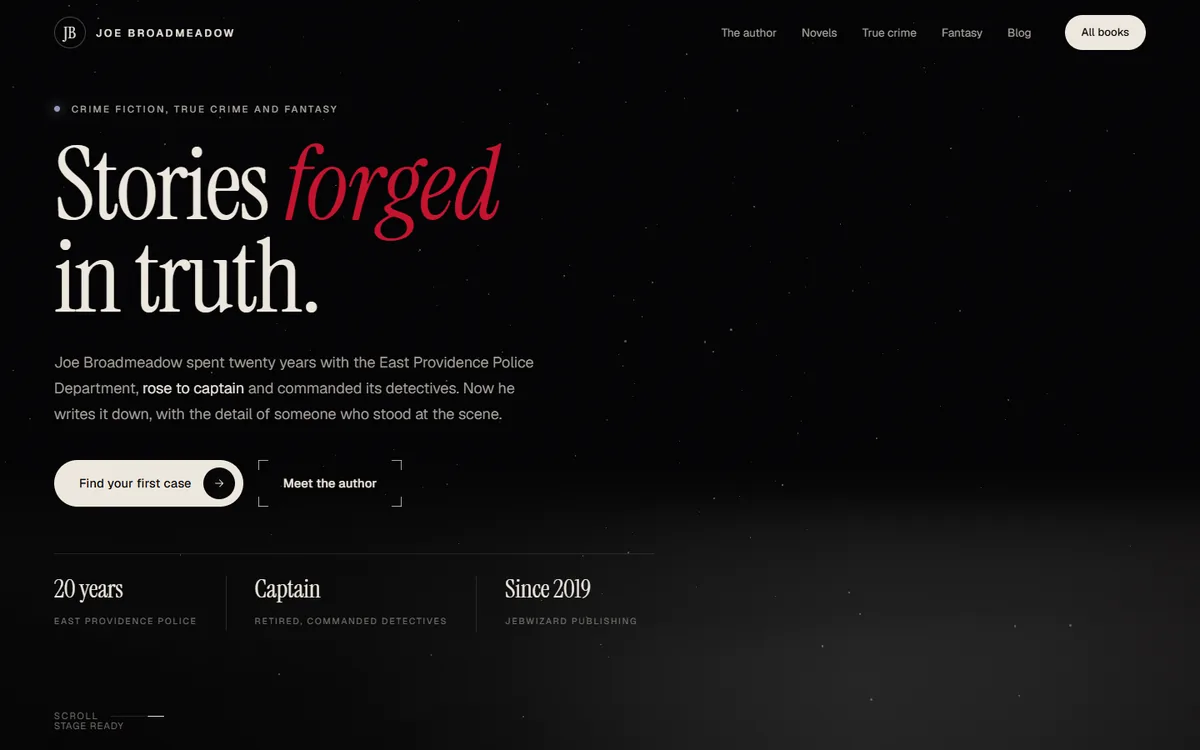
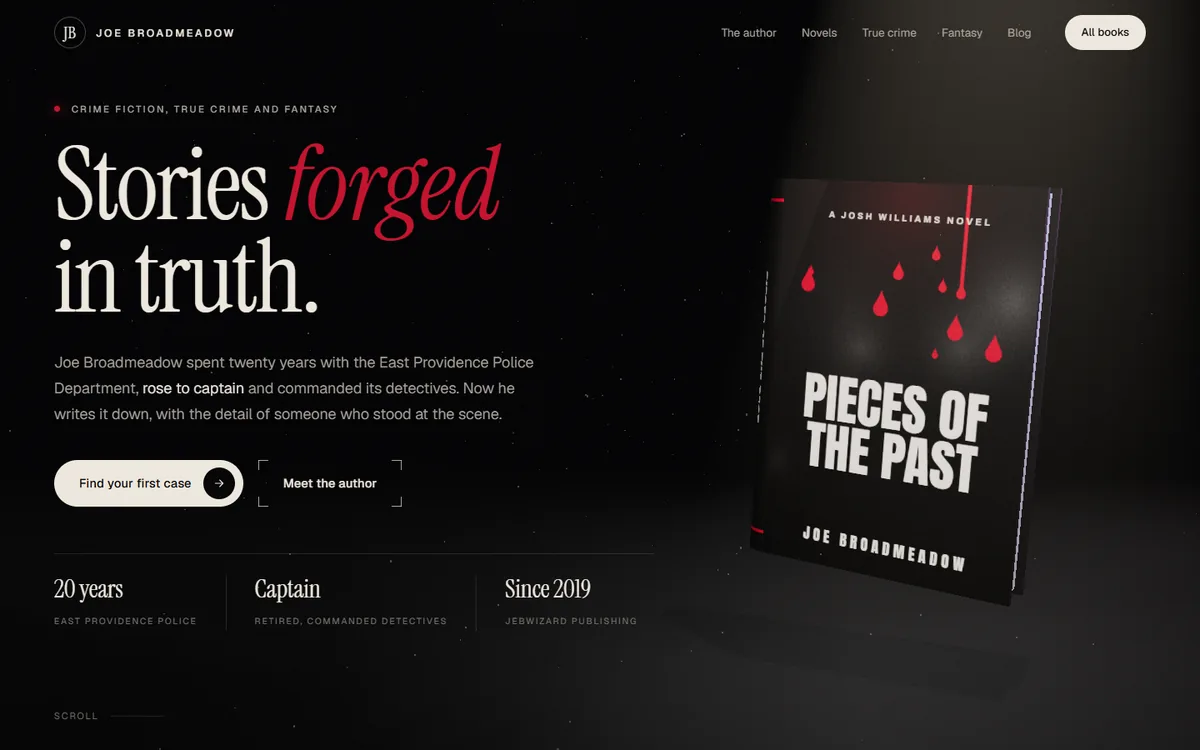
Turn the three author sites on a scroll-driven ring
- The example mock-up in Author marketing becomes a carousel of the
  three real sites travelling round a circle: scroll brings each to the
  front in turn (holding there briefly), the others fade at the sides,
  and a caption names the front site. Sites stay face-on, the front one
  links to the live site, and the ring is clipped to its panel on small
  screens.
- Joe Broadmeadow's desktop screenshot is retaken on the GPU so the 3D
  book renders, with the settled paragraph from a later frame.
- The address bar is removed from the ring and showcase cards; image
  URLs are versioned so old cached screenshots are not reused.

Changed region(s): [[0.6475, 0.0, 0.9867, 0.6747], [0.6783, 0.7053, 0.8017, 0.7667], [0.0617, 0.9507, 0.0925, 0.9813]]

diff --git a/index.html b/index.html
@@ -467,30 +467,20 @@ p{margin:0}
 .f-ic svg{width:26px;height:26px}
 .feature h3{font-size:24px;font-weight:800}
 .feature p{color:var(--muted);font-size:16px;margin-top:6px}
-.mk-visual{position:relative;min-width:0;height:520px;perspective:1700px}
+.mk-visual{position:relative;min-width:0;height:520px;container-type:inline-size}
 .mk-visual .disc2{position:absolute;inset:8% 4%;border-radius:32px;background:var(--leaf-pale)}
-.browser-wrap{position:absolute;inset:6% 6% 10%;transform-style:preserve-3d}
-.browser{position:absolute;inset:0;transform-style:preserve-3d}
-.layer{position:absolute;border:2px solid var(--forest);border-radius:14px}
-.ly-frame{inset:0;background:var(--paper);box-shadow:8px 8px 0 var(--forest)}
-.ly-bar{left:0;right:0;top:0;height:40px;border-radius:12px 12px 0 0;background:var(--forest);display:flex;align-items:center;gap:6px;padding-inline:14px;border:none}
-.ly-bar b{width:10px;height:10px;border-radius:50%;background:var(--leaf)}
-.ly-bar b:nth-child(2){background:var(--gold-2)}.ly-bar b:nth-child(3){background:var(--cream)}
-.ly-bar span{margin-left:12px;font:500 12px var(--mono);color:var(--leaf-pale);background:var(--forest-2);padding:4px 12px;border-radius:6px}
-.ly-hero{left:5%;right:5%;top:58px;height:36%;background:var(--forest);display:flex;align-items:center;gap:18px;padding:18px;overflow:hidden}
-.mini-cover{flex:none;width:72px;height:104px;background:var(--gold-2);border:2px solid var(--forest-deep);border-radius:2px 6px 6px 2px;border-left:6px solid var(--gold);box-shadow:4px 4px 0 var(--forest-deep);position:relative}
-.mini-cover::after{content:"";position:absolute;left:10px;right:10px;top:16px;height:8px;background:var(--forest);border-radius:2px;box-shadow:0 14px 0 -1px var(--forest)}
-.ly-hero strong{display:block;font:800 clamp(20px,2.4vw,28px)/1 var(--display);color:var(--cream)}
-.ly-hero small{display:block;font:italic 14px var(--body);color:var(--leaf-pale);margin-top:6px}
-.ly-hero .pill{display:inline-block;margin-top:12px;font:700 12px var(--display);background:var(--leaf);color:var(--forest-deep);padding:6px 10px;border-radius:6px}
-.ly-posts{left:5%;right:5%;bottom:5%;top:calc(58px + 36% + 16px);background:var(--cream);padding:14px;display:grid;gap:8px;align-content:start;overflow:hidden}
-.ly-posts h4{margin:0;font:700 12px var(--mono);letter-spacing:.12em;text-transform:uppercase;color:var(--moss)}
-.post{min-width:0;display:flex;align-items:center;justify-content:space-between;gap:10px;background:var(--paper);border:1.5px solid var(--forest);border-radius:8px;padding:8px 11px;font:600 13.5px var(--display);color:var(--forest)}
-.post span:first-child{flex:1;min-width:0;overflow:hidden;text-overflow:ellipsis;white-space:nowrap}
-.state{flex:none;font:500 10.5px var(--mono);letter-spacing:.08em;text-transform:uppercase;padding:4px 7px;border-radius:5px;background:var(--leaf-pale);color:var(--moss)}
-.state.sched{background:#f6e3b8;color:#7a560f}
-.ex-tag{position:absolute;right:6%;bottom:2%;font:500 11px var(--mono);letter-spacing:.1em;text-transform:uppercase;color:var(--muted)}
-@media (max-width:900px){.mk-grid{grid-template-columns:1fr}.mk-visual{height:460px}}
+/* Three real author sites on a turning ring; scroll turns it so each site comes to the front in turn */
+.ring-stage{position:absolute;inset:0;perspective:1600px}
+.ring{--iw:min(430px,76cqw);position:absolute;left:50%;top:46%;width:0;height:0;transform-style:preserve-3d;transform:rotateX(-6deg)}
+/* Each site travels round the circle but stays face-on, so none is ever seen mirrored */
+.ring-item{position:absolute;width:var(--iw);left:calc(var(--iw) / -2);top:calc(var(--iw) * -.3125);display:block;
+  border:2px solid var(--forest);border-radius:12px;overflow:hidden;background:var(--paper);box-shadow:7px 7px 0 var(--forest);will-change:transform,opacity}
+.ring-item:not(:first-child){opacity:0}
+.ring-item img{display:block;width:100%;height:auto;aspect-ratio:16/10;object-fit:cover;object-position:top}
+.ring-cap{position:absolute;left:0;right:0;bottom:2%;display:flex;flex-direction:column;align-items:center;gap:2px;text-align:center}
+.ring-k{font:500 11px var(--mono);letter-spacing:.12em;text-transform:uppercase;color:var(--moss)}
+.ring-n{font:800 20px var(--display);color:var(--forest)}
+@media (max-width:900px){.mk-grid{grid-template-columns:1fr}.mk-visual{height:460px;overflow:clip}}
 @media (max-width:520px){.mk-visual{height:420px}.browser-wrap{inset:4% 0 10%}.ly-hero{gap:12px;padding:12px}.mini-cover{width:54px;height:80px}}
 
 /* ---------- Author site showcase ---------- */
@@ -503,10 +493,6 @@ p{margin:0}
 /* Flat browser frame; hover tilts with the separate rotate/translate properties so scroll animation keeps transform */
 .sc-browser{display:block;border:2px solid var(--forest);border-radius:12px;overflow:hidden;background:var(--paper);box-shadow:7px 7px 0 var(--forest);
   transition:rotate .45s var(--spring),translate .45s var(--spring),box-shadow .45s var(--spring)}
-.sc-bar{display:flex;align-items:center;gap:5px;height:28px;padding-inline:10px;background:var(--forest)}
-.sc-bar i{width:8px;height:8px;border-radius:50%;background:var(--leaf)}
-.sc-bar i:nth-child(2){background:var(--gold-2)}.sc-bar i:nth-child(3){background:var(--cream)}
-.sc-bar span{margin-left:8px;min-width:0;overflow:hidden;text-overflow:ellipsis;white-space:nowrap;font:500 10.5px var(--mono);color:var(--leaf-pale);background:var(--forest-2);padding:3px 9px;border-radius:5px}
 .sc-browser img{display:block;width:100%;height:auto;aspect-ratio:16/10;object-fit:cover;object-position:top}
 .sc-phone{position:absolute;right:0;bottom:0;width:26%;height:auto;aspect-ratio:390/844;object-fit:cover;object-position:top;border:5px solid var(--forest-deep);border-radius:16px;
   background:var(--forest-deep);box-shadow:5px 5px 0 var(--forest);transition:translate .45s var(--spring),rotate .45s var(--spring)}
@@ -1091,21 +1077,20 @@ fieldset{border:none;padding:0;margin:0;display:grid;gap:10px}
 
     <div class="mk-visual" aria-hidden="true">
       <div class="disc2"></div>
-      <div class="browser-wrap" id="browserWrap">
-        <div class="browser">
-          <div class="layer ly-frame"></div>
-          <div class="layer ly-bar"><b></b><b></b><b></b><span>yourname.com</span></div>
-          <div class="layer ly-hero"><div class="mini-cover"></div><div><strong>Your Name</strong><small>Author of Your Book</small><span class="pill">Read chapter one</span></div></div>
-          <div class="layer ly-posts">
-            <h4>From the blog</h4>
-            <div class="post"><span>Where the idea for chapter one came from</span><span class="state">Published</span></div>
-            <div class="post"><span>Five books that shaped this series</span><span class="state">Published</span></div>
-            <div class="post"><span>Behind the cover: early sketches</span><span class="state sched" data-later="Published">Scheduled</span></div>
-            <div class="post"><span>Launch week reading list</span><span class="state sched">Scheduled</span></div>
-          </div>
+      <div class="ring-stage">
+        <div class="ring" id="siteRing">
+          <a class="ring-item" href="https://author-website1-eight.vercel.app" target="_blank" rel="noopener" tabindex="-1" style="--i:0" data-k="Crime fiction &amp; true crime" data-name="Joe Broadmeadow">
+            <img src="assets/showcase/broadmeadow-desktop.webp?v=2" alt="" width="1200" height="750" loading="lazy">
+          </a>
+          <a class="ring-item" href="https://author-website2.vercel.app" target="_blank" rel="noopener" tabindex="-1" style="--i:1" data-k="Poetry &amp; art" data-name="H.T. Manogue">
+            <img src="assets/showcase/manogue-desktop.webp?v=2" alt="" width="1200" height="750" loading="lazy">
+          </a>
+          <a class="ring-item" href="https://author-website3.vercel.app" target="_blank" rel="noopener" tabindex="-1" style="--i:2" data-k="Faith &amp; nonfiction" data-name="Gabriel Pollard">
+            <img src="assets/showcase/pollard-desktop.webp?v=2" alt="" width="1200" height="750" loading="lazy">
+          </a>
         </div>
       </div>
-      <span class="ex-tag">Example author site</span>
+      <p class="ring-cap"><span class="ring-k" id="ringK">Crime fiction &amp; true crime</span><span class="ring-n" id="ringN">Joe Broadmeadow</span></p>
     </div>
   </div>
 
@@ -1117,9 +1102,9 @@ fieldset{border:none;padding:0;margin:0;display:grid;gap:10px}
     <div class="sc-grid">
       <article class="sc-card">
         <a class="sc-shot" href="https://author-website1-eight.vercel.app" target="_blank" rel="noopener" tabindex="-1" aria-hidden="true">
-          <span class="sc-browser"><span class="sc-bar"><i></i><i></i><i></i><span>author-website1-eight.vercel.app</span></span>
-            <img src="assets/showcase/broadmeadow-desktop.webp" alt="" width="1200" height="750" loading="lazy"></span>
-          <img class="sc-phone" src="assets/showcase/broadmeadow-phone.webp" alt="" width="390" height="844" loading="lazy">
+          <span class="sc-browser">
+            <img src="assets/showcase/broadmeadow-desktop.webp?v=2" alt="" width="1200" height="750" loading="lazy"></span>
+          <img class="sc-phone" src="assets/showcase/broadmeadow-phone.webp?v=2" alt="" width="390" height="844" loading="lazy">
         </a>
         <div class="sc-meta">
           <span class="sc-k">Crime fiction &amp; true crime</span>
@@ -1130,9 +1115,9 @@ fieldset{border:none;padding:0;margin:0;display:grid;gap:10px}
       </article>
       <article class="sc-card">
         <a class="sc-shot" href="https://author-website2.vercel.app" target="_blank" rel="noopener" tabindex="-1" aria-hidden="true">
-          <span class="sc-browser"><span class="sc-bar"><i></i><i></i><i></i><span>author-website2.vercel.app</span></span>
-            <img src="assets/showcase/manogue-desktop.webp" alt="" width="1200" height="750" loading="lazy"></span>
-          <img class="sc-phone" src="assets/showcase/manogue-phone.webp" alt="" width="390" height="844" loading="lazy">
+          <span class="sc-browser">
+            <img src="assets/showcase/manogue-desktop.webp?v=2" alt="" width="1200" height="750" loading="lazy"></span>
+          <img class="sc-phone" src="assets/showcase/manogue-phone.webp?v=2" alt="" width="390" height="844" loading="lazy">
         </a>
         <div class="sc-meta">
           <span class="sc-k">Poetry &amp; art</span>
@@ -1143,9 +1128,9 @@ fieldset{border:none;padding:0;margin:0;display:grid;gap:10px}
       </article>
       <article class="sc-card">
         <a class="sc-shot" href="https://author-website3.vercel.app" target="_blank" rel="noopener" tabindex="-1" aria-hidden="true">
-          <span class="sc-browser"><span class="sc-bar"><i></i><i></i><i></i><span>author-website3.vercel.app</span></span>
-            <img src="assets/showcase/pollard-desktop.webp" alt="" width="1200" height="750" loading="lazy"></span>
-          <img class="sc-phone" src="assets/showcase/pollard-phone.webp" alt="" width="390" height="844" loading="lazy">
+          <span class="sc-browser">
+            <img src="assets/showcase/pollard-desktop.webp?v=2" alt="" width="1200" height="750" loading="lazy"></span>
+          <img class="sc-phone" src="assets/showcase/pollard-phone.webp?v=2" alt="" width="390" height="844" loading="lazy">
         </a>
         <div class="sc-meta">
           <span class="sc-k">Faith &amp; nonfiction</span>
@@ -1524,15 +1509,35 @@ fieldset{border:none;padding:0;margin:0;display:grid;gap:10px}
     },
     onLeave:() => skew(0), onLeaveBack:() => skew(0)});
 
-  // ---------- Author site assembles from exploded layers ----------
-  const layers = $$('.layer');
-  const bt = gsap.timeline({scrollTrigger:{trigger:'.mk-visual', start:'top 90%', end:'center 55%', scrub:1}});
-  bt.fromTo('#browserWrap', {rotationX:55, rotationZ:-32, scale:.82}, {rotationX:0, rotationZ:0, scale:1, ease:'power2.out'}, 0)
-    .fromTo(layers, {z:i => i * 55}, {z:0, ease:'power2.out'}, 0);
-  gsap.timeline({scrollTrigger:{trigger:'.mk-visual', start:'center 60%', once:true}})
-    .from('.post', {x:40, autoAlpha:0, stagger:.15, duration:.5, ease:'back.out(1.6)'})
-    .add(() => { const s = $('.state[data-later]'); s.textContent = s.dataset.later; s.classList.remove('sched'); }, '+=.6')
-    .from('.state[data-later]', {scale:1.4, duration:.4, ease:'back.out(3)'});
+  // ---------- Author sites ring: scroll turns it, one site at a time ----------
+  const ring = $('#siteRing'), ringItems = $$('.ring-item', ring), ringK = $('#ringK'), ringN = $('#ringN');
+  const spin = {a:0};
+  let frontIdx = 0;
+  const drawRing = () => {
+    const R = ringItems[0].offsetWidth * .62;
+    ringItems.forEach((it, i) => {
+      const d = ((i * 120 - spin.a) % 360 + 540) % 360 - 180;   // angle from the front, -180..180
+      const rad = d * Math.PI / 180, c = Math.cos(rad);
+      gsap.set(it, {x:R * Math.sin(rad), z:R * (c - 1), rotationY:-d * .3, zIndex:Math.round(c * 10) + 10});
+      it.style.opacity = (.3 + .7 * Math.max(0, c)).toFixed(3);
+      it.style.pointerEvents = Math.abs(d) < 30 ? 'auto' : 'none';
+    });
+    const n = ((Math.round(spin.a / 120) % 3) + 3) % 3;
+    if (n !== frontIdx) {
+      frontIdx = n;
+      ringK.innerHTML = ringItems[n].dataset.k; ringN.textContent = ringItems[n].dataset.name;
+      gsap.fromTo([ringK, ringN], {y:8, autoAlpha:0}, {y:0, autoAlpha:1, duration:.35, stagger:.05, ease:'power2.out'});
+    }
+  };
+  drawRing();
+  // Each site holds at the front for a moment before the ring turns to the next
+  gsap.timeline({onUpdate:drawRing, scrollTrigger:{trigger:'.mk-grid', start:'top 75%', end:'bottom 20%', scrub:1}})
+    .to(spin, {a:0, duration:.35})
+    .to(spin, {a:120, duration:1, ease:'sine.inOut'})
+    .to(spin, {a:120, duration:.35})
+    .to(spin, {a:240, duration:1, ease:'sine.inOut'})
+    .to(spin, {a:240, duration:.35});
+  gsap.from('.ring-stage', {scale:.85, autoAlpha:0, duration:.9, ease:'power3.out', scrollTrigger:{trigger:'.mk-visual', start:'top 85%', once:true}});
 
   // ---------- Author site showcase ----------
   $$('.sc-card').forEach((card, i) => {
